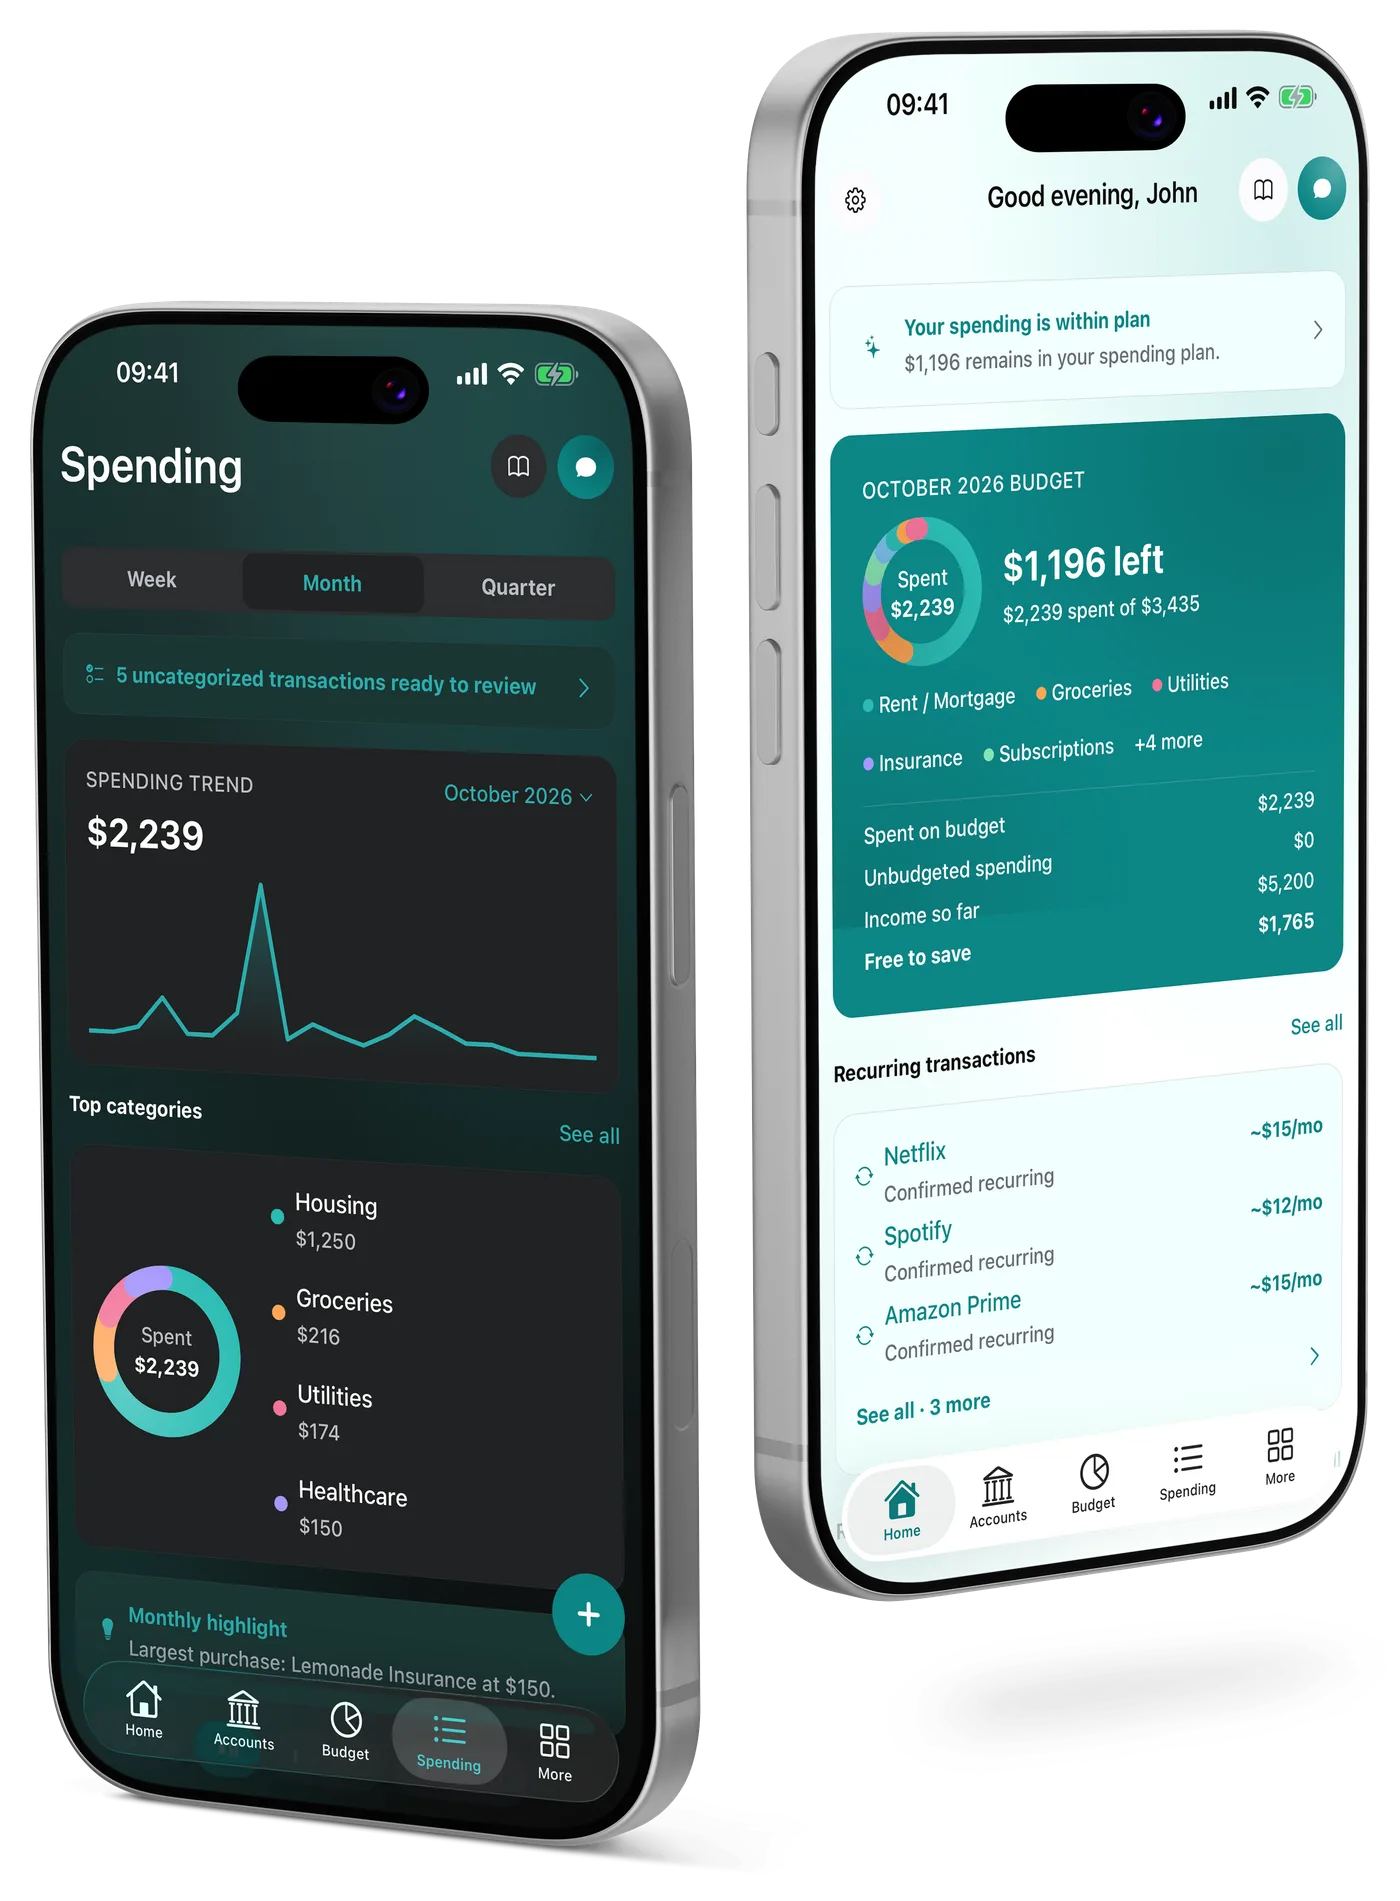
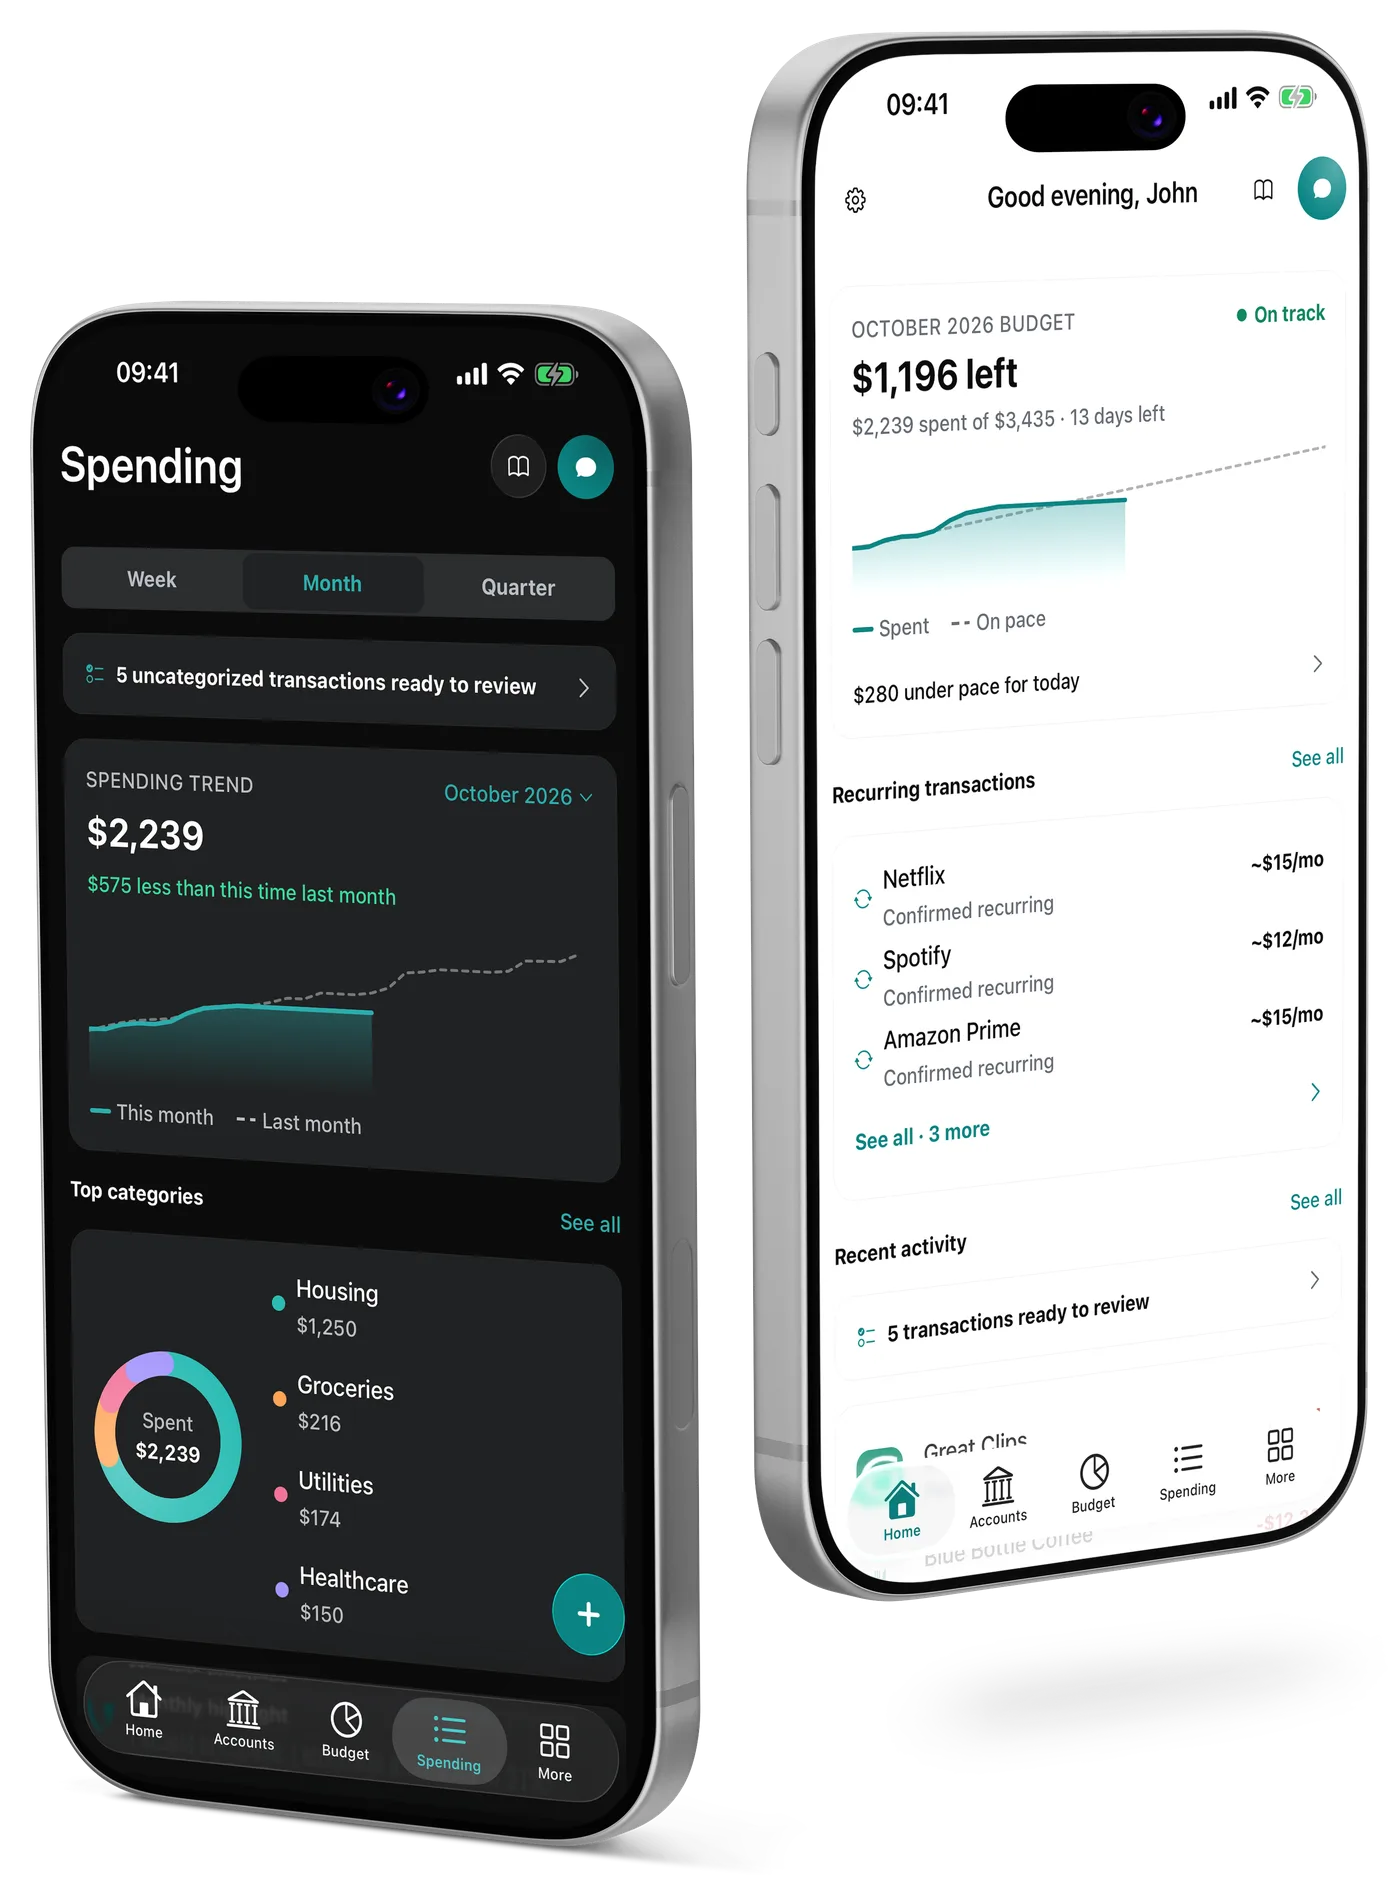
Refresh student page images for the new app UI

Changed region(s): [[0.0307, 0.1552, 0.4607, 0.9621], [0.5836, 0.0, 0.9829, 0.838], [0.8907, 0.5897, 0.9521, 0.6828]]

diff --git a/src/content.js b/src/content.js
@@ -90,8 +90,8 @@ export const features = [
     body: "Connect your bank and cards through Plaid. Transactions sort themselves into categories, so you see the month at a glance.",
     src: "/images/spending-trend.webp",
     width: 1000,
-    height: 1208,
-    alt: "Kove spending trend chart for October 2026 showing $2,239 spent, with top categories housing, groceries, utilities, and healthcare",
+    height: 1433,
+    alt: "Kove spending trend chart for October 2026 showing $2,239 spent, $575 less than the same point last month, with top categories housing, groceries, utilities, and healthcare",
   },
   {
     eyebrow: "Budgets",
@@ -99,7 +99,7 @@ export const features = [
     body: "Set a budget for groceries, eating out, or anything else, and Kove tracks it in real time. No spreadsheets.",
     src: "/images/budget-tiles.webp",
     width: 900,
-    height: 837,
+    height: 828,
     alt: "Kove app budget categories showing spending against each budget, like $216 of $570 on groceries",
   },
   {
@@ -108,8 +108,8 @@ export const features = [
     body: "Spring break, a car, next quarter's rent. Pick a target and a date, and watch your progress build.",
     src: "/images/goal-card.webp",
     width: 900,
-    height: 486,
-    alt: "Kove app savings goal for a Mexico trip showing $4,879 saved, the next milestone, and a $300 a month target",
+    height: 409,
+    alt: "Kove app savings goal for a Mexico trip showing $4,879 saved, the next milestone, and $321 a month needed",
   },
 ];
 
